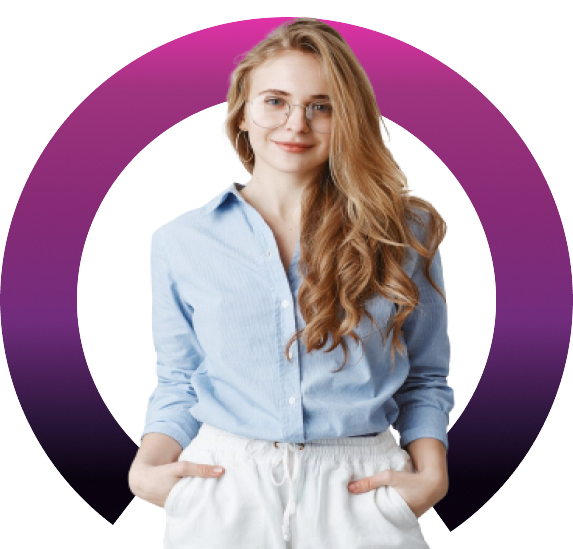
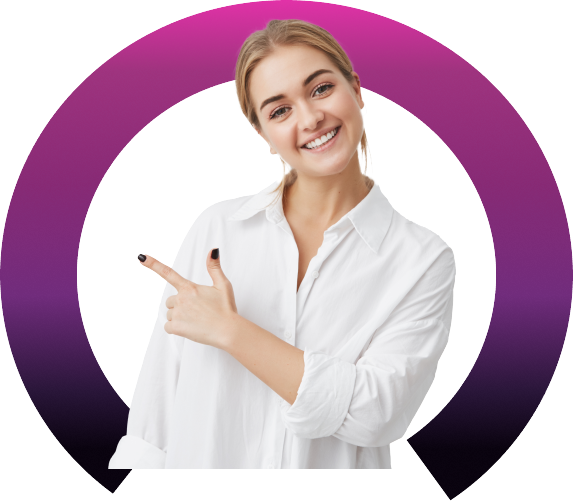
fix project

diff --git a/src/components/MentorSection/MentorSection.module.scss b/src/components/MentorSection/MentorSection.module.scss
@@ -5,11 +5,11 @@
   padding: 32px 16px;
 
   @include mx.media-q("md") {
-    padding: 48px 40px;
+    padding: 60px 40px;
   }
 
-  @media (min-width: 1280px) {
-    padding: 60px 64px;
+  @include mx.media-q("xxxl") {
+    padding: 72px 40px;
   }
 
   .title {
@@ -17,17 +17,21 @@
     text-align: center;
     font-weight: 700;
     font-size: 26px;
-    margin-bottom: 16px;
+    line-height: normal;
 
     @include mx.media-q("md") {
       font-weight: 600;
       font-size: 32px;
-      margin-bottom: 32px;
+      margin-bottom: 20px;
     }
 
     @media (min-width: 1280px) {
       font-size: 40px;
       margin-bottom: 48px;
+    }
+
+    @include mx.media-q("xxxl") {
+      margin-bottom: 56px;
     }
   }
 
@@ -41,16 +45,8 @@
       width: 100%;
       display: flex;
       flex-direction: column-reverse;
+      justify-content: center;
       align-items: center;
-      margin-bottom: 20px;
-
-      @media (min-width: 660px) {
-        align-items: self-start;
-      }
-
-      @include mx.media-q("md") {
-        margin-bottom: 32px;
-      }
 
       @media (min-width: 1280px) {
         flex-direction: row;
@@ -58,67 +54,81 @@
         align-items: center;
         margin-bottom: 48px;
       }
+
+      @include mx.media-q("xxxl") {
+        margin-bottom: 56px;
+      }
     }
 
     .text {
       box-shadow: inset 0 2px 20px 0 rgba(114, 109, 113, 0.6);
       background: rgba(210, 210, 210, 0.5);
+
       border-radius: 16px;
-      padding: 16px;
+      padding: 20px;
       width: 100%;
       max-width: 607px;
       position: relative;
-      transform: translateY(-15px);
+      transform: translateY(-7vw);
       @include mx.apply-font-styles(var.$text-20-font);
       font-weight: 400;
       font-size: 14px;
       z-index: 3;
 
-      @media (min-width: 410px) {
-        transform: translateY(-18px);
-      }
-
       @media (min-width: 660px) {
-        transform: translateY(-25px);
+        transform: translateY(-60px);
       }
 
       @include mx.media-q("md") {
-        transform: translateY(-30px);
         font-size: 20px;
       }
 
       @media (min-width: 1280px) {
-        transform: translateX(50px);
+        transform: translate(15px, 20px);
       }
 
-      & p {
-        margin-bottom: 14px;
+      .text_mb{
+        margin-bottom: 21px;
         @include mx.media-q("md") {
-          margin-bottom: 20px;
+          margin-bottom: 30px;
         }
       }
     }
 
     .wrapper_img{
       position: relative;
-      width: clamp(280px, 80vw, 560px);
-      height: clamp(280px, 80vw, 560px);
+      width: clamp(288px, 92vw, 573px);
+      height: clamp(282px, 87vw, 550px);
+      transform: translateY(5vw);
 
       @media (min-width: 660px) {
-        width: clamp(560px, 70vw, 573px);
-        height: clamp(560px, 70vw, 573px);
-        align-self: flex-end;
+        transform: translateY(20px);
       }
 
       @media (min-width: 1280px) {
-        align-self: center;
+        transform: translateX(-15px);
       }
 
       .image {
+        display: none;
+        height: 100%;
+        object-fit: contain;
+        object-position: center;
+      }
+      .image_mobile{
         display: block;
         height: 100%;
         object-fit: contain;
         object-position: center;
+      }
+
+      @media (min-width: 1280px)  {
+        .image {
+          display: block;
+        }
+        .image_mobile{
+          display: none;
+        }
       }
     }
   }

diff --git a/src/components/PageNotFound/PageNotFound.module.scss b/src/components/PageNotFound/PageNotFound.module.scss
@@ -3,54 +3,53 @@
 
 .mainErr {
   display: flex;
-  flex-direction: column;
   justify-content: center;
-
   align-items: center;
-  min-height: 100vh;
-  margin-top: 66px;
-  padding: 38px 10px 48px 10px;
+  margin-top: 80px;
+  padding: 38px 10px;
 
   @include mx.media-q("md") {
-    margin-top: 80px;
-    padding: 48px 65px 60px 65px;
+    padding: 48px 65px;
   }
 
   @include mx.media-q("xl") {
-    padding: 110px 260px 89px 260px;
+    padding: 65px;
   }
 
-  .numbers {
-    @include mx.apply-font-styles(var.$h2-font);
+  .wrapper{
+    display: flex;
+    flex-direction: column;
+    justify-content: center;
+    align-items: center;
+    gap: 16px;
 
-    font-size: 96px;
-    color: var.$secondary-gray;
-    margin-bottom: 16px;
-
-    @include mx.media-q("md") {
-      font-size: 164px;
+    .numbers {
+      @include mx.apply-font-styles(var.$h2-font);
+      font-size: 96px;
+      line-height: 1.1;
+      color: var.$secondary-gray;
+  
+      @include mx.media-q("md") {
+        font-size: 164px;
+      }
+  
+      @include mx.media-q("xl") {
+        font-size: 200px;
+      }
     }
+  
+    p {
+      @include mx.apply-font-styles(var.$h2-font);
+      font-size: 14px;
+      font-weight: 700;
+      color: var.$secondary-white;
+      text-align: center;
+      margin-bottom: 8px;
 
-    @include mx.media-q("xl") {
-      margin-bottom: 32px;
-      font-size: 200px;
-    }
-  }
-
-  p {
-    @include mx.apply-font-styles(var.$h2-font);
-
-    font-size: 14px;
-
-    font-weight: 700;
-    color: var.$secondary-white;
-
-    margin-bottom: 24px;
-    text-align: center;
-
-    @include mx.media-q("md") {
-      font-size: 24px;
-      margin-bottom: 48px;
+      @include mx.media-q("md") {
+        font-size: 24px;
+        margin-bottom: 32px;
+      }
     }
   }
 }

diff --git a/src/components/MentorSection/MentorSection.jsx b/src/components/MentorSection/MentorSection.jsx
@@ -10,19 +10,29 @@ const MentorSection = () => {
     <section className={styles.mentor}>
       <div className={styles.container}>
         <h2 className={styles.title}>{t("title")}</h2>
+        
         <div className={styles.wrapper}>
           <div className={styles.text}>
-            <p>
+            <p className={styles.text_mb}>
               {t("paragraph_1")}
             </p>
-            <p>
+            <p className={styles.text_mb}>
               {t("paragraph_2")}
             </p>
             <p>
               {t("paragraph_3")}
             </p>
           </div>
+
           <div className={styles.wrapper_img}>
+            <Image
+              className={styles.image_mobile}
+              src={'/images/mentor_section/mentor_mobile.png'}
+              fill
+              sizes="100%"
+              alt="About mentor team"
+              quality={80}
+            />
             <Image
               className={styles.image}
               src={'/images/mentor_section/mentor.png'}
@@ -32,8 +42,8 @@ const MentorSection = () => {
               quality={80}
             />
           </div>
-
         </div>
+
         <ControlBtnRegistrationFormModal>
           {t("btn_mentor")}
         </ControlBtnRegistrationFormModal>

diff --git a/src/components/PageNotFound/PageNotFound.jsx b/src/components/PageNotFound/PageNotFound.jsx
@@ -1,12 +1,17 @@
 import styles from "./PageNotFound.module.scss";
 import ButtonLink from "../shared/ButtonLink/ButtonLink";
+import { useTranslations } from "next-intl";
 
-export const PageNotFound = ({ textErr, textErrBtn }) => {
+export const PageNotFound = () => {
+  const t = useTranslations("Page_404");
+
   return (
     <main className={styles.mainErr}>
-      <p className={styles.numbers}>404</p>
-      <p>{textErr}</p>
-      <ButtonLink url="/">{textErrBtn}</ButtonLink>
+      <div className={styles.wrapper}>
+        <h1 className={styles.numbers}>404</h1>
+        <p>{t('title')}</p>
+        <ButtonLink url="/">{t('btn_home')}</ButtonLink>
+      </div>
     </main>
   );
 };

diff --git a/src/app/[locale]/not-found.jsx b/src/app/[locale]/not-found.jsx
@@ -1,12 +1,5 @@
 import { PageNotFound } from "@/src/components/PageNotFound/PageNotFound";
-import { useTranslations } from "next-intl";
 
 export default function NotFound() {
-  const t = useTranslations("Page_404");
-  return (
-    <PageNotFound
-      textErr={t('title')}
-      textErrBtn={t('btn_home')}
-    />
-  );
-}
+  return <PageNotFound/>
+};

diff --git a/src/app/[locale]/error.jsx b/src/app/[locale]/error.jsx
@@ -8,7 +8,7 @@ export default function GlobalError({ reset }) {
   const t = useTranslations("Error");
   return (
     <main className={styles.mainErr}>
-      <p>{t('title')}<span> :)</span></p>
+      <p>{t('title')}<span> :(</span></p>
       <MainButton onClick={() => reset()}>{t('btn_home')}</MainButton>
     </main>
   );
